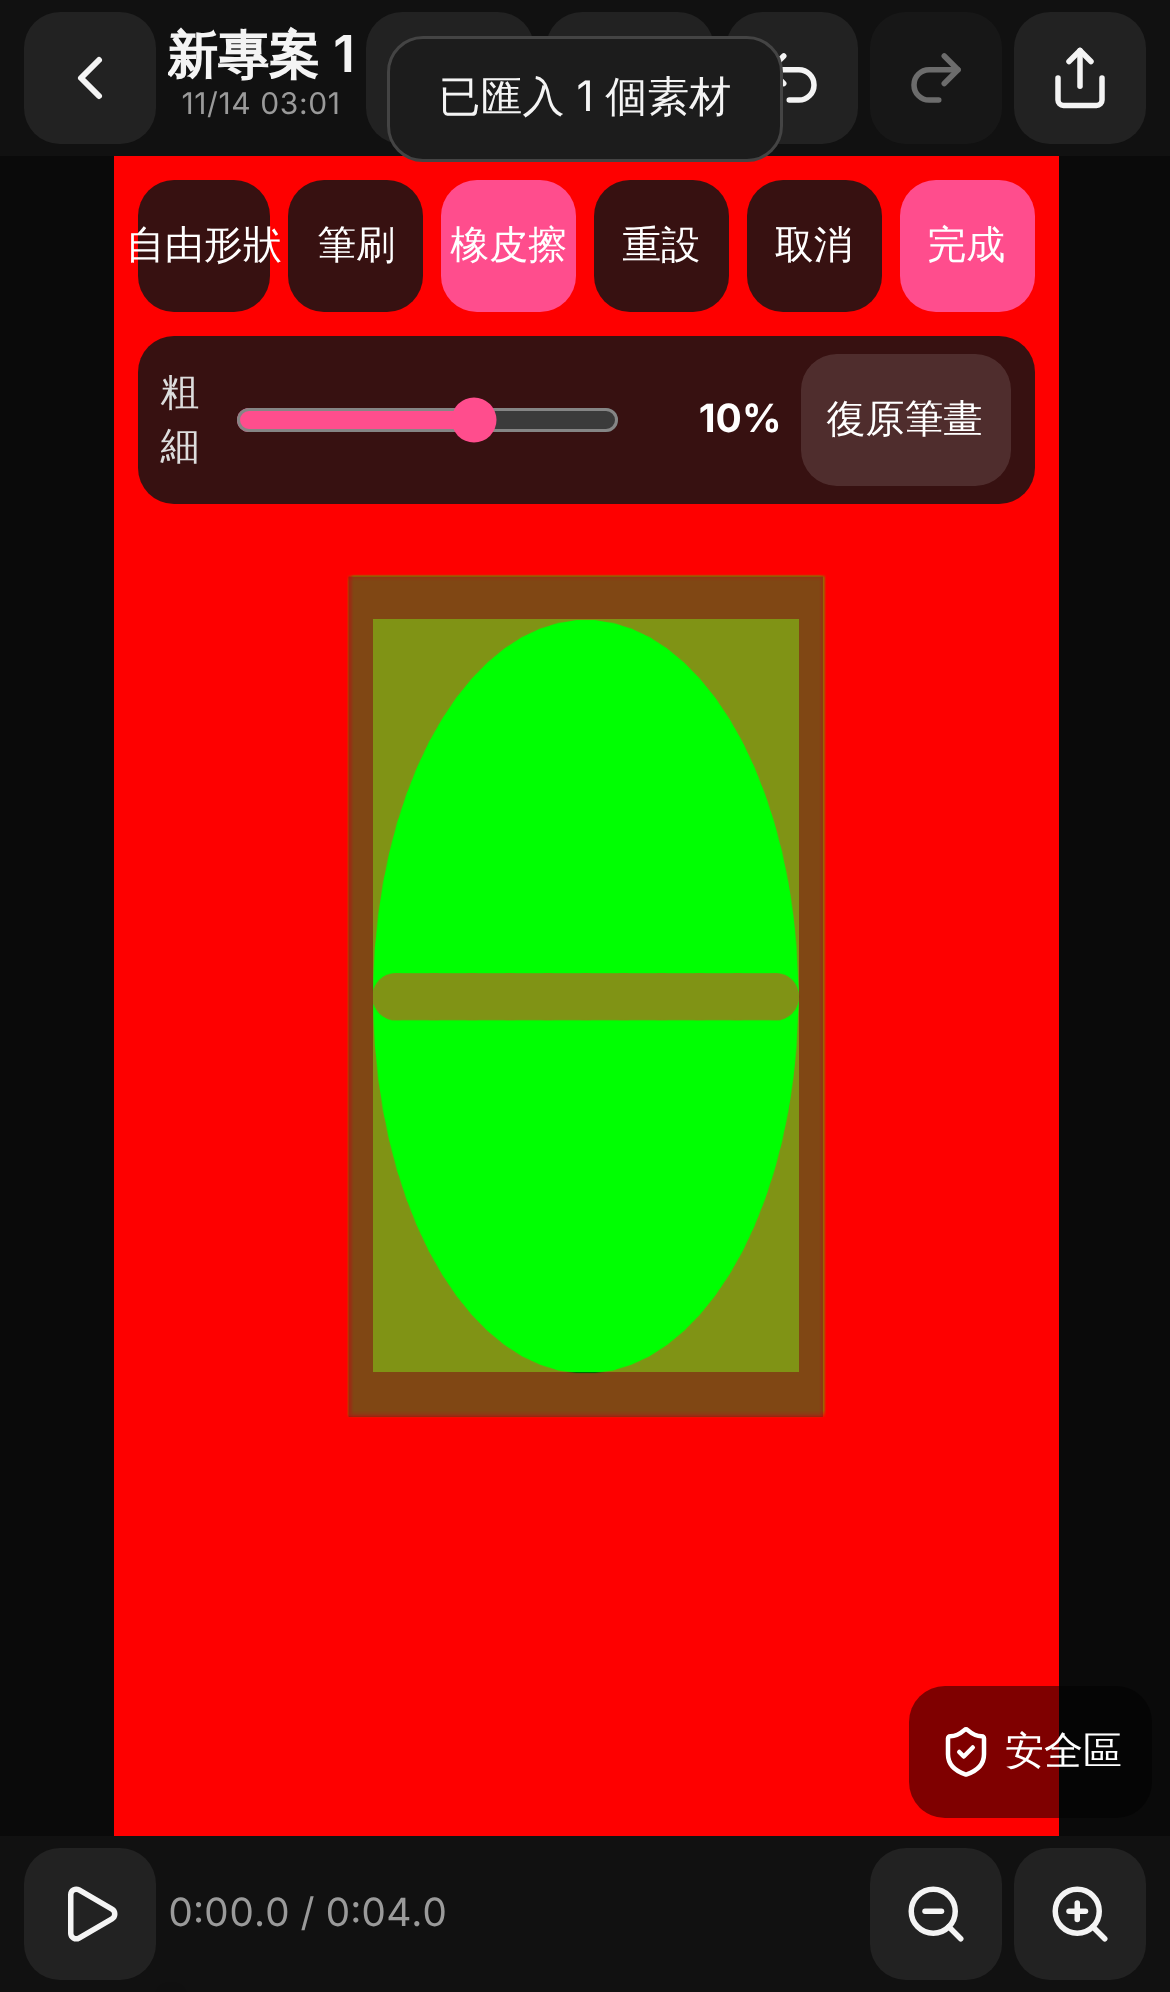
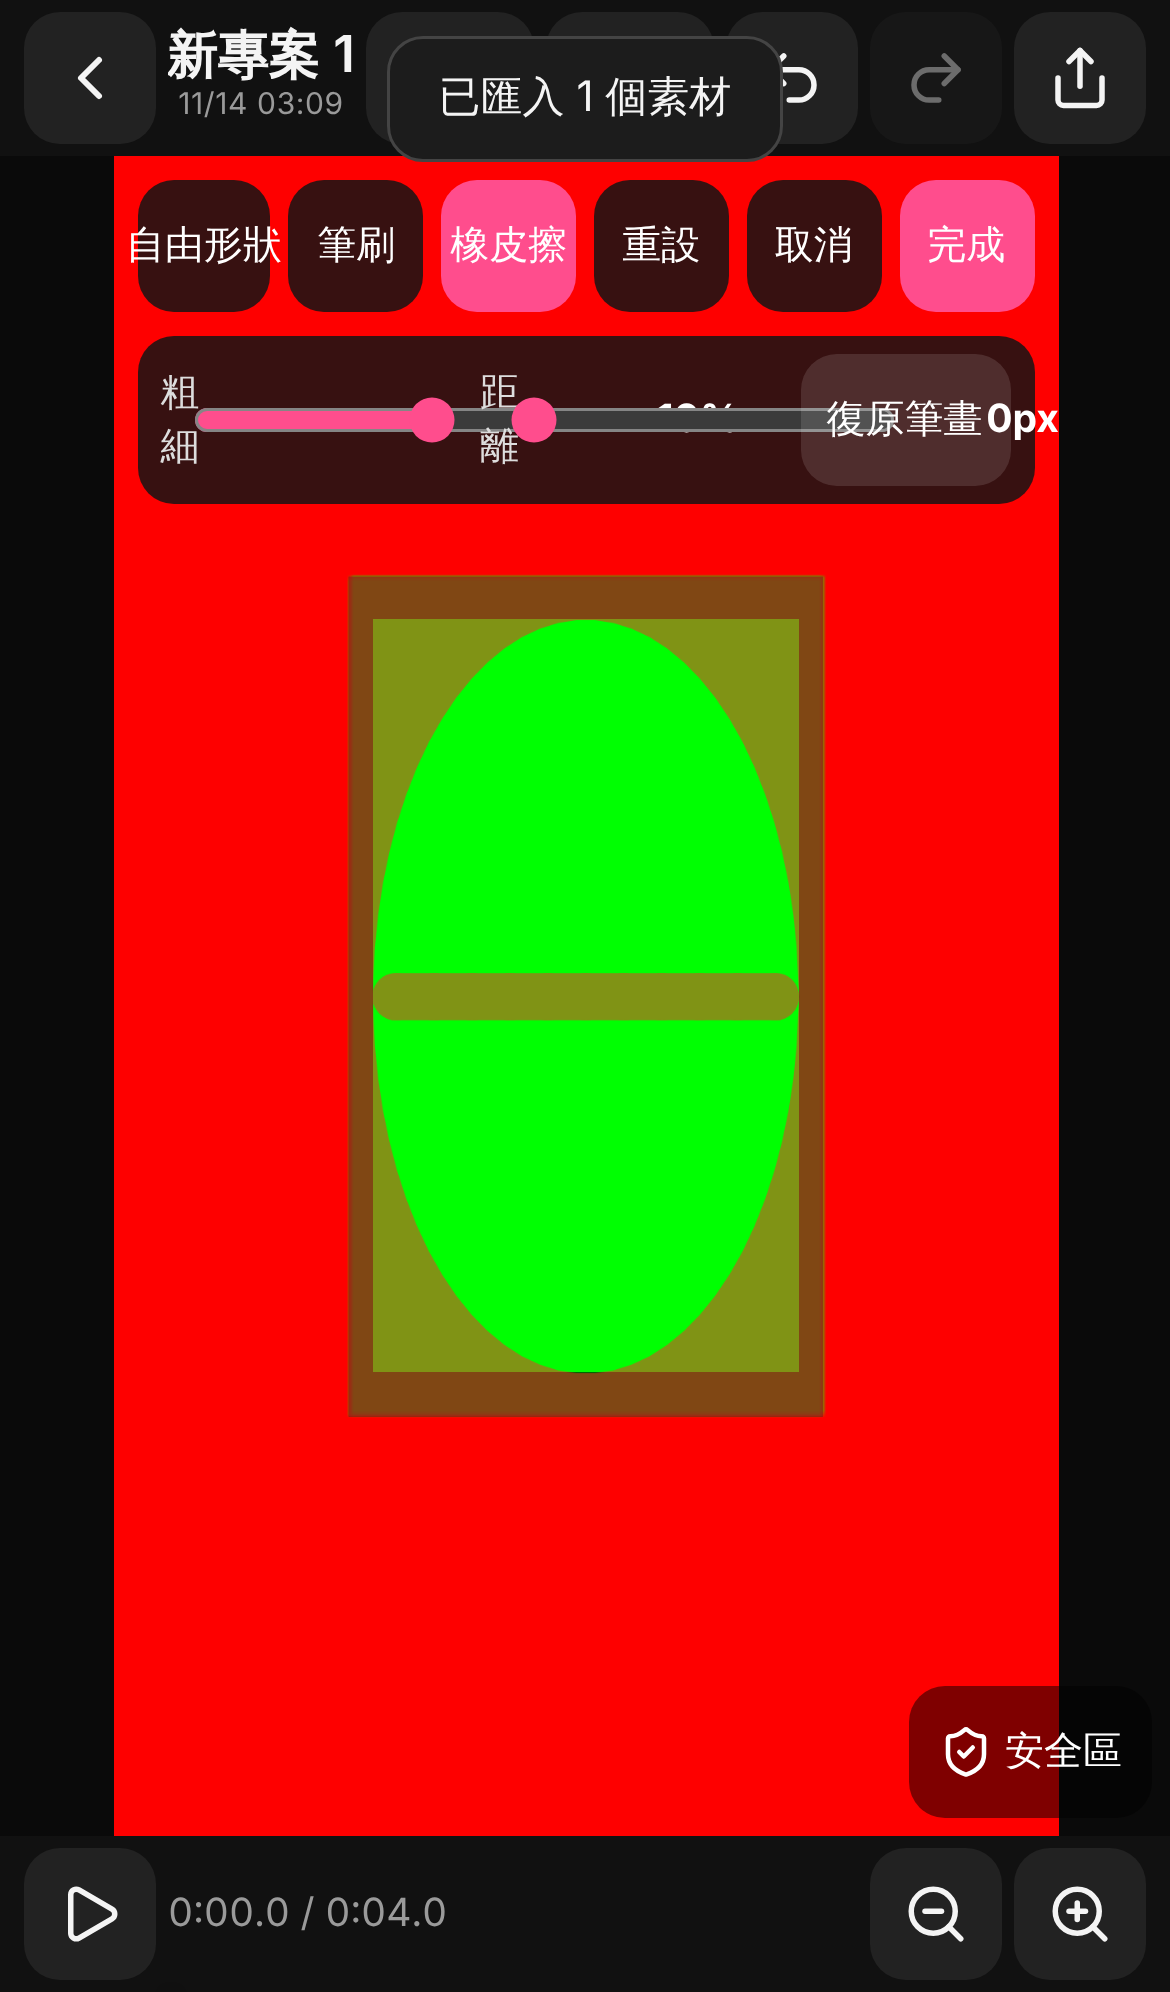
I6 裁切筆刷：手指圓＋焦點圓（距離與粗細可調）、按下先不畫
Claude-Session: https://claude.ai/code/session_019agY7otd5feanTroznJ55n

diff --git a/e2e/i6.spec.ts b/e2e/i6.spec.ts
@@ -1,0 +1,109 @@
+import { expect, test, type Page } from '@playwright/test';
+import { addOverlays, createProjectWith, openTab, samplePreview, isGreen } from './helpers';
+
+const SHOT = 'docs/screenshots/feedback-9/i6';
+
+async function setup(page: Page) {
+  await createProjectWith(page, ['solid-red.webm']);
+  await addOverlays(page, ['solid-green.webm']);
+  await openTab(page, '剪輯');
+  await expect.poll(async () => isGreen(await samplePreview(page, 0.5, 0.5))).toBe(true);
+  await page.getByRole('button', { name: '裁切' }).tap();
+  await page.getByRole('switch', { name: '自由形狀' }).tap();
+  await page.evaluate(() => window.scrollTo(0, 0));
+  const fr = (await page.getByTestId('crop-frame').boundingBox())!;
+  const cx = fr.x + fr.width / 2;
+  const cy = fr.y + fr.height / 2;
+  await page.mouse.move(cx + fr.width * 0.45, cy);
+  await page.mouse.down();
+  for (let i = 1; i <= 36; i++) {
+    const a = (i / 36) * Math.PI * 2;
+    await page.mouse.move(cx + fr.width * 0.45 * Math.cos(a), cy + fr.height * 0.45 * Math.sin(a));
+  }
+  await page.mouse.up();
+  await expect(page.getByTestId('crop-polygon')).toBeVisible();
+  await page.getByRole('switch', { name: '橡皮擦' }).tap();
+  await expect(page.getByTestId('paint-bar')).toBeVisible();
+}
+
+const frame = async (page: Page) => (await page.getByTestId('crop-frame').boundingBox())!;
+/** 紅色提示（被擦掉的地方）在框的比例位置有沒有顏色 */
+const erasedAt = (page: Page, fx: number, fy: number) =>
+  page.getByTestId('crop-tint').evaluate(
+    (c, p) => {
+      const cv = c as HTMLCanvasElement;
+      const d = cv
+        .getContext('2d')!
+        .getImageData(Math.round(p[0]! * cv.width), Math.round(p[1]! * cv.height), 1, 1).data;
+      return d[3]! > 20;
+    },
+    [fx, fy],
+  );
+
+test('距離 80px：手指在 y 畫一條線，被擦掉的是 y−80px 那一條；手指圓是白色實心、焦點圓（空心＋十字）在它上方 80px', async ({
+  page,
+}) => {
+  test.setTimeout(90_000);
+  await setup(page);
+  await page.getByLabel('粗細').fill('5');
+  await expect(page.getByLabel('距離')).toHaveValue('70'); // 預設 70
+  await page.getByLabel('距離').fill('80');
+  const fr = await frame(page);
+  const y = fr.y + fr.height * 0.8;
+  await page.mouse.move(fr.x + fr.width * 0.25, y);
+  await page.mouse.down();
+  await page.mouse.move(fr.x + fr.width * 0.35, y, { steps: 3 });
+  // 兩個圓：手指圓（實心）在手指位置，焦點圓在上方 80px
+  const a = (await page.getByTestId('brush-finger').boundingBox())!;
+  const b = (await page.getByTestId('brush-cursor').boundingBox())!;
+  expect(a.y + a.height / 2).toBeGreaterThan(b.y + b.height / 2);
+  expect(a.y + a.height / 2 - (b.y + b.height / 2)).toBeGreaterThan(75);
+  expect(a.y + a.height / 2 - (b.y + b.height / 2)).toBeLessThan(85);
+  expect(Math.abs(a.x + a.width / 2 - (b.x + b.width / 2))).toBeLessThan(3);
+  await page.screenshot({ path: `${SHOT}/two-circles.png` });
+  await page.mouse.move(fr.x + fr.width * 0.75, y, { steps: 6 });
+  await page.mouse.up();
+  const fyFocus = 0.8 - 80 / fr.height;
+  expect(await erasedAt(page, 0.5, fyFocus)).toBe(true);
+  expect(await erasedAt(page, 0.5, 0.8)).toBe(false); // 手指底下沒有被擦
+  expect(await erasedAt(page, 0.5, 0.2)).toBe(false);
+});
+
+test('距離 0：直接畫在手指下面；距離存在這台手機', async ({ page }) => {
+  test.setTimeout(90_000);
+  await setup(page);
+  await page.getByLabel('粗細').fill('5');
+  await page.getByLabel('距離').fill('0');
+  const fr = await frame(page);
+  const y = fr.y + fr.height * 0.6;
+  await page.mouse.move(fr.x + fr.width * 0.3, y);
+  await page.mouse.down();
+  await page.mouse.move(fr.x + fr.width * 0.7, y, { steps: 6 });
+  await page.mouse.up();
+  expect(await erasedAt(page, 0.5, 0.6)).toBe(true);
+  expect(await page.evaluate(() => localStorage.getItem('vc-brush-reach'))).toBe('0');
+});
+
+test('按下去先不畫：快速點一下不會留下一點；移動超過 4px 或按住 250ms 才開始畫', async ({ page }) => {
+  test.setTimeout(90_000);
+  await setup(page);
+  await page.getByLabel('粗細').fill('8');
+  await page.getByLabel('距離').fill('0');
+  const fr = await frame(page);
+  const x = fr.x + fr.width * 0.5;
+  const y = fr.y + fr.height * 0.5;
+  // 快速點一下：沒畫、也沒有可復原的筆畫
+  await page.mouse.move(x, y);
+  await page.mouse.down();
+  await page.mouse.up();
+  expect(await erasedAt(page, 0.5, 0.5)).toBe(false);
+  await expect(page.getByRole('button', { name: '復原筆畫' })).toBeDisabled();
+  // 按住不動 250ms 以上：開始畫（畫一個點）
+  await page.mouse.move(x, y);
+  await page.mouse.down();
+  await page.waitForTimeout(400);
+  await page.mouse.up();
+  expect(await erasedAt(page, 0.5, 0.5)).toBe(true);
+  await expect(page.getByRole('button', { name: '復原筆畫' })).toBeEnabled();
+  await page.screenshot({ path: `${SHOT}/hold-dot.png` });
+});

diff --git a/src/app/editor/CropOverlay.tsx b/src/app/editor/CropOverlay.tsx
@@ -10,7 +10,9 @@ import {
   cancelCrop,
   ensureMaskCanvas,
   finishCrop,
+  MAX_REACH,
   paintMask,
+  saveReach,
   pushMaskUndo,
   setLassoMask,
   undoMaskStroke,
@@ -44,7 +46,8 @@ export function CropOverlay({
   const selectedId = useProjectStore((st) => st.selectedId);
   const frameRef = useRef<HTMLDivElement>(null);
   const [lassoPts, setLassoPts] = useState<Pt[] | null>(null);
-  const [cursor, setCursor] = useState<Pt | null>(null); // 筆刷游標（原始畫面的比例）
+  const [cursor, setCursor] = useState<Pt | null>(null); // 焦點圓（真正畫的地方，原始畫面的比例）
+  const [finger, setFinger] = useState<Pt | null>(null); // 手指圓 A（手指的位置，原始畫面的比例，可以超出畫面）
 
   // 選了別的片段、或片段不見了（復原）就離開裁切模式
   useEffect(() => {
@@ -131,29 +134,59 @@ export function CropOverlay({
     el.addEventListener('pointercancel', up);
   };
 
+  /** 手指的位置（不夾在畫面內）→ 原始畫面的比例；dyPx＝再往上移幾 px（焦點圓用） */
+  const rawPoint = (ev: { clientX: number; clientY: number }, dyPx = 0): Pt => {
+    const r = frameRef.current!.getBoundingClientRect();
+    const [fx, fy] = toFrac(ev.clientX - (r.left + r.width / 2), ev.clientY - dyPx - (r.top + r.height / 2));
+    return [fx + 0.5, fy + 0.5];
+  };
+
   const startPaint = (e: RPointerEvent) => {
     e.stopPropagation();
     e.preventDefault();
     const el = e.currentTarget as HTMLElement;
     el.setPointerCapture(e.pointerId);
-    pushMaskUndo();
     const tool = () => useCrop.getState().s?.paint ?? 'brush';
-    let last = pointOf(e);
-    paintMask(last, last, tool());
-    bumpMask();
+    const reach = () => useCrop.getState().s?.reach ?? 0;
+    const focusOf = (ev: { clientX: number; clientY: number }): Pt => {
+      const q = rawPoint(ev, reach());
+      return [clamp(q[0], 0, 1), clamp(q[1], 0, 1)];
+    };
+    // 按下去先只移動、不畫（不會在錯的地方點一點）：手指移動超過 4px、或按住 250ms 才開始畫
+    const x0 = e.clientX;
+    const y0 = e.clientY;
+    let drawing = false;
+    let last = focusOf(e);
+    setFinger(rawPoint(e));
     setCursor(last);
+    const begin = (at: Pt) => {
+      if (drawing) return;
+      drawing = true;
+      pushMaskUndo();
+      paintMask(at, at, tool());
+      last = at;
+      bumpMask();
+    };
+    const timer = window.setTimeout(() => begin(last), 250);
     const move = (ev: PointerEvent) => {
-      const p = pointOf(ev);
+      const p = focusOf(ev);
+      setFinger(rawPoint(ev));
+      setCursor(p);
+      if (!drawing) {
+        if (Math.hypot(ev.clientX - x0, ev.clientY - y0) <= 4) return;
+        begin(last); // 從按下去時焦點圓的位置開始畫起
+      }
       paintMask(last, p, tool());
       last = p;
       bumpMask();
-      setCursor(p);
     };
     const up = () => {
+      window.clearTimeout(timer);
       el.removeEventListener('pointermove', move);
       el.removeEventListener('pointerup', up);
       el.removeEventListener('pointercancel', up);
       setCursor(null);
+      setFinger(null);
     };
     el.addEventListener('pointermove', move);
     el.addEventListener('pointerup', up);
@@ -211,9 +244,17 @@ export function CropOverlay({
         {s.maskCanvas && <MaskTint s={s} />}
         {s.paint && (
           <div className="crop-paint" data-testid="crop-paint" onPointerDown={startPaint}>
+            {finger && (
+              <i
+                className="brush-finger"
+                data-testid="brush-finger"
+                style={{ left: `${finger[0] * 100}%`, top: `${finger[1] * 100}%` }}
+              />
+            )}
             {cursor && (
               <i
                 className="brush-cursor"
+                data-testid="brush-cursor"
                 style={{
                   left: `${cursor[0] * 100}%`,
                   top: `${cursor[1] * 100}%`,
@@ -321,6 +362,20 @@ export function CropOverlay({
               step={1}
               format={(v) => `${v}%`}
               onChange={(v) => updateCrop({ brush: v / 100 })}
+            />
+          </div>
+          <div className="paint-size">
+            <Slider
+              label="距離"
+              value={s.reach}
+              min={0}
+              max={MAX_REACH}
+              step={5}
+              format={(v) => `${v}px`}
+              onChange={(v) => {
+                saveReach(v);
+                updateCrop({ reach: v });
+              }}
             />
           </div>
           <button className="btn" disabled={s.undo.length === 0} onClick={undoMaskStroke}>

diff --git a/src/store/cropStore.ts b/src/store/cropStore.ts
@@ -26,6 +26,8 @@ export type CropSession = {
   paint: 'brush' | 'erase' | null;
   /** 筆刷粗細（佔整張原始畫面寬的比例） */
   brush: number;
+  /** 焦點圓在手指圓上方幾 px（0＝直接畫在手指下面）；存在這台手機 */
+  reach: number;
   /** 筆刷／橡皮擦編輯中的遮罩（整張原始畫面座標，長邊 MASK_SIDE；不透明＝留下）；null＝還沒開始畫 */
   maskCanvas: HTMLCanvasElement | null;
   /** 這個物件原本就有點陣圖遮罩（沒被重設／重新圈選的話完成時保留） */
@@ -90,6 +92,7 @@ export function startCrop(itemId: string): boolean {
       mask: item.mask ?? null,
       paint: null,
       brush: 0.04,
+      reach: readReach(),
       maskCanvas: null,
       hasBitmap: !!item.maskBitmap,
       dropBitmap: false,
@@ -251,6 +254,27 @@ export function undoMaskStroke() {
 }
 
 /** 在遮罩上畫一小段（from→to 是原始畫面的比例；r 是半徑，佔畫面寬的比例）：筆刷＝留下，橡皮擦＝去掉 */
+const REACH_KEY = 'vc-brush-reach';
+export const DEFAULT_REACH = 70;
+export const MAX_REACH = 150;
+function readReach(): number {
+  try {
+    const v = Number(localStorage.getItem(REACH_KEY));
+    if (localStorage.getItem(REACH_KEY) !== null && Number.isFinite(v))
+      return Math.min(Math.max(v, 0), MAX_REACH);
+  } catch {
+    /* 沒有儲存空間就用預設 */
+  }
+  return DEFAULT_REACH;
+}
+export function saveReach(v: number) {
+  try {
+    localStorage.setItem(REACH_KEY, String(v));
+  } catch {
+    /* ignore */
+  }
+}
+
 export function paintMask(from: Pt, to: Pt, tool: 'brush' | 'erase') {
   const s = useCrop.getState().s;
   const cv = s?.maskCanvas;

diff --git a/src/app/styles.css b/src/app/styles.css
@@ -2644,6 +2644,36 @@ button {
   box-shadow: 0 0 0 1px rgba(0, 0, 0, 0.6);
   pointer-events: none;
 }
+/* 焦點圓中間一個十字 */
+.brush-cursor::before,
+.brush-cursor::after {
+  content: '';
+  position: absolute;
+  left: 50%;
+  top: 50%;
+  background: #fff;
+  box-shadow: 0 0 0 1px rgba(0, 0, 0, 0.5);
+  transform: translate(-50%, -50%);
+}
+.brush-cursor::before {
+  width: 11px;
+  height: 1.5px;
+}
+.brush-cursor::after {
+  width: 1.5px;
+  height: 11px;
+}
+/* 手指圓 A：白色實心 */
+.brush-finger {
+  position: absolute;
+  width: 30px;
+  height: 30px;
+  transform: translate(-50%, -50%);
+  border-radius: 50%;
+  background: rgba(255, 255, 255, 0.92);
+  box-shadow: 0 0 0 1.5px rgba(0, 0, 0, 0.45);
+  pointer-events: none;
+}
 .crop-bar.paint-bar {
   top: 60px;
   align-items: center;
@@ -2655,9 +2685,23 @@ button {
 .crop-bar.paint-bar {
   right: 8px;
 }
+.crop-bar.paint-bar {
+  flex-wrap: wrap;
+}
 .crop-bar.paint-bar .paint-size {
-  flex: 1;
+  flex: 1 1 100%;
   min-width: 0;
+  color: #fff;
+}
+.crop-bar.paint-bar .slider-row input[type='range'] {
+  height: 34px;
+}
+.crop-bar.paint-bar .slider-label {
+  min-width: 44px;
+  white-space: nowrap;
+  color: #ddd;
+}
+.crop-bar.paint-bar .slider-val {
   color: #fff;
 }
 .crop-bar.paint-bar .slider-row {

diff --git a/e2e/h7.spec.ts b/e2e/h7.spec.ts
@@ -32,6 +32,7 @@ async function stroke(page: Page, from: [number, number], to: [number, number]) 
   const at = (p: [number, number]) => [fr.x + fr.width * p[0], fr.y + fr.height * p[1]] as const;
   const [x0, y0] = at(from);
   const [x1, y1] = at(to);
+  await page.getByLabel('距離').fill('0'); // 焦點圓直接在手指下面（距離另外有 i6 的測試）
   await page.mouse.move(x0, y0);
   await page.mouse.down();
   for (let i = 1; i <= 10; i++) await page.mouse.move(x0 + ((x1 - x0) * i) / 10, y0 + ((y1 - y0) * i) / 10);

diff --git a/docs/PROGRESS.md b/docs/PROGRESS.md
@@ -81,6 +81,10 @@
   - ✅ 時間軸：接縫圓圈寫代表字，沒選米色（#EADBC8）、選取中橘棕（#B8553A）；單一素材進／出場圓圈在片段開頭／結尾內側，沒選 #7F8C6A、選取中 #1E3B2F，並畫出特效佔的那一段斜線；點圓圈＝選到素材、切到特效分頁對應那塊（`useUI.fxFocus`）。
   - ✅ 特效分頁：最上面兩個色塊圖例（雙影片銜接／單影片進出場）；進場／出場／轉場三塊；進出場卡片畫「空→B」「A→空」；字卡多一張「打字」（只是登記，字數效果還沒做）；音訊只有淡入淡出滑桿；進出場「幾秒」用滑桿。
   - 測試：單元 58 個轉場測試（每一種特效進場開頭看不到／出場結尾走掉、前後分配、同類才接、分割）；`e2e/i5.spec.ts`（捲簾放下進場三段畫面、進出場同時有、圓圈顏色與代表字）。
+- 2026-11-14 I6 裁切筆刷偏移（feedback-9，Sonnet 實作）
+  - ✅ 筆刷／橡皮擦：手指按的地方是白色實心圓 A，真正畫的地方是焦點圓（空心圓＋十字），在 A 上方「距離」px（預設 70、0–150、存在這台手機 `vc-brush-reach`）；粗細與距離兩條滑桿；按下去先只移動不畫，手指移動超過 4px 或按住 250ms 才開始畫（快速點一下不會留下一點，也不算一筆復原）；從按下時焦點圓的位置開始畫起。
+  - 測試：`e2e/i6.spec.ts`（距離 80px 擦掉的是 y−80px 那一條、兩個圓的距離、距離 0、不會點一下就畫）；h7 的筆畫測試改成距離 0。
+  - 🟡 手指圓 A、焦點圓的大小與位置要在 iPhone 上看順不順手；筆刷工具列兩條滑桿占高度（約 140px），會蓋住畫面上方一點點。
 - 2026-11-14 I5-2（feedback-9，Sonnet 實作）
   - ✅ 細調面板 `EffectTimingSheet`：預覽在左、拖拉軸在右同一列；進場只有「迄」旗標、出場只有「起」旗標（不寫序號、沒有新增／移除）；下面欄位連動（進場 迄＝特效幾秒；出場 起＝長度−特效幾秒）；轉場分配「起（A 結尾前幾秒）／迄（B 開頭後幾秒）／特效幾秒（相加，改它時照比例分配）」，套用後 `before／after` 生效。
   - ✅ 文字特效：字卡也能用 32 種；「打字」（進場往後打、出場像 delete 從後往前刪、打字中有游標）；文字樣式特效 `textFx`：閃爍（亮光掃過）、發光閃亮、方格字（方格一直動）、震動；特效分頁字卡多一塊「文字特效」，時間軸字卡中間有代表字圓圈。

diff --git a/docs/PLAN.md b/docs/PLAN.md
@@ -395,5 +395,6 @@ docs/
 - [ ] （feedback-9 I2）預設順暢預覽、頂列「順暢／高清」切換；往回拖畫面不再消失；轉場銜接有沒有更順
 - [ ] （feedback-9 I3）時間軸 0 秒貼左邊；影像、貼圖、字卡、音訊四類各自收合；貼圖自成一類
 - [ ] （feedback-9 I4）共用片段標記軸（修剪影片／音樂、音訊靜音標記）：白線、「在白線位置新增一組起迄標記」、預覽播放、復原；手指拖旗標的手感
+- [ ] （feedback-9 I6）裁切筆刷：手指圓與焦點圓的距離（預設 70px）順不順手、按住 250ms 才畫的手感、兩條滑桿占的高度
 - [ ] （feedback-9 I5）特效：時間軸接縫的代表字（米色／橘棕）與單一素材進出場的代表字（#7F8C6A／#1E3B2F）看不看得清楚、點得到嗎；進場／出場分開設定；「調整時間」面板預覽左軸右的版面；轉場前後分配；字卡的打字（出場像 delete）、閃爍、發光閃亮、方格字、震動在手機上的順暢度；版型的進出場特效
 
